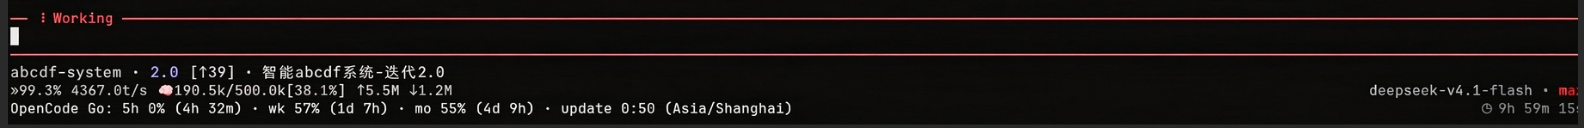
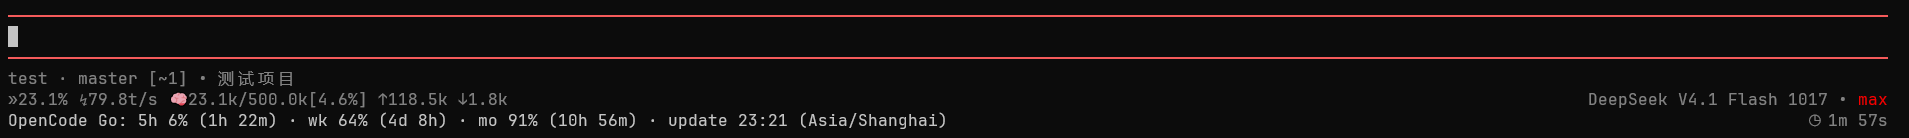
显示层修改：模型标签改用目录显示名并保留版本后缀
- 第二行模型标签优先使用 ctx.model.name，回退 id；DeepSeek V4.1 Flash 1017 不再显示为 deepseek-v4.1-flash
- 虚拟模型的 → 目标通过 modelRegistry 解析物理模型显示名，查不到时回退 id
- 测试补充模型显示名与虚拟模型箭头断言，修正过时的 🧠 图标期望
- 同步 README、CONTEXT 文档，更新示例截图

Changed region(s): [[0.0, 0.0, 1.0, 1.0]]

diff --git a/test/footer.test.ts b/test/footer.test.ts
@@ -100,7 +100,7 @@ test("renders family status on the first line and external statuses beside runti
 	const ctx = {
 		mode: "tui",
 		cwd: "/Users/me/.herdr/worktrees/repo/worktree-clear-field-f8d2",
-		model: { id: "gpt-5.6-luna" },
+		model: { id: "gpt-5.6-luna", name: "GPT-5.6 Luna" },
 		get thinkingLevel() { return thinkingLevel; },
 		sessionManager: { getEntries: () => entries },
 		getContextUsage: () => ({ tokens: 84_680, contextWindow: 200_000, percent: 42.34 }),
@@ -131,8 +131,8 @@ test("renders family status on the first line and external statuses beside runti
 	const rendered = footer.render(100);
 	assert.match(rendered[0]!, /\x1b\]8;;vscode:\/\/file\/Users\/me\/\.herdr\/worktrees\/repo\/worktree-clear-field-f8d2\x1b\\/);
 	assert.ok(colors.some(([color, text]) => color === "accent" && text === "clear-field-f8d2"));
-	const usageText = "»50.0% ↯— ◔84.7k/200.0k[42.3%] ↑3.2k ↓500";
-	const modelText = "gpt-5.6-luna • high";
+	const usageText = "»50.0% ↯— 🧠84.7k/200.0k[42.3%] ↑3.2k ↓500";
+	const modelText = "GPT-5.6 Luna • high";
 	assert.match(stripTerminalSequences(rendered[0]!), /^repo · clear-field-f8d2 · PR #123 · approved +Codex #1 · 50% · 7d 1d 1h 22m$/);
 	const usageLine = stripTerminalSequences(rendered[1]!);
 	assert.ok(usageLine.startsWith(`${usageText} `), usageLine);
@@ -218,6 +218,10 @@ test("shows the routed physical model under a virtual selection", async () => {
 	let branch = entries;
 	let leaf = "failed";
 	let model = { id: "auto", api: "pi-virtual" };
+	const names = new Map([
+		["anthropic/claude-haiku-4-5", "Claude Haiku 4.5"],
+		["anthropic/claude-sonnet-4-5", "Claude Sonnet 4.5"],
+	]);
 	const factory = await start({
 		mode: "tui",
 		cwd: "/repo",
@@ -225,6 +229,12 @@ test("shows the routed physical model under a virtual selection", async () => {
 		thinkingLevel: "high",
 		sessionManager: { getEntries: () => entries, getBranch: () => branch, getLeafId: () => leaf },
 		getContextUsage: () => undefined,
+		modelRegistry: {
+			find: (provider: string, id: string) => {
+				const name = names.get(`${provider}/${id}`);
+				return name ? { id, name } : undefined;
+			},
+		},
 	});
 	const footer = factory(
 		{ requestRender() {} },
@@ -233,13 +243,13 @@ test("shows the routed physical model under a virtual selection", async () => {
 	);
 	const modelText = () => stripTerminalSequences(footer.render(100)[1]!).replace(/^.* {2}/, "");
 	// The failed response is skipped; the routed level is omitted when the response has none.
-	assert.equal(modelText(), "auto • high → claude-sonnet-4-5");
+	assert.equal(modelText(), "auto • high → Claude Sonnet 4.5");
 	// Same entries and leaf: cached.
 	branch = [haiku];
-	assert.equal(modelText(), "auto • high → claude-sonnet-4-5");
+	assert.equal(modelText(), "auto • high → Claude Sonnet 4.5");
 	// Tree navigation changes the leaf and refreshes the routed model.
 	leaf = "haiku";
-	assert.match(footer.render(100)[1]!, /→ claude-haiku-4-5 • \x1b\[38;5;118mmedium\x1b\[39m$/);
+	assert.match(footer.render(100)[1]!, /→ Claude Haiku 4\.5 • \x1b\[38;5;118mmedium\x1b\[39m$/);
 	model = { id: "claude-sonnet-4-5", api: "anthropic-messages" };
 	assert.equal(modelText(), "claude-sonnet-4-5 • high");
 	footer.dispose();

diff --git a/extensions/footer.ts b/extensions/footer.ts
@@ -172,13 +172,13 @@ function rainbow(text: string): string {
 }
 
 /** Physical model and thinking level of the latest successful response on the branch; failed and aborted requests are skipped. */
-function latestResponse(ctx: ExtensionContext): { model: string; thinkingLevel?: string } | undefined {
+function latestResponse(ctx: ExtensionContext): { provider: string; model: string; thinkingLevel?: string } | undefined {
 	const branch = ctx.sessionManager.getBranch();
 	for (let index = branch.length - 1; index >= 0; index--) {
 		const entry = branch[index]!;
 		if (entry.type !== "message" || entry.message.role !== "assistant") continue;
-		const { stopReason, model, thinkingLevel } = entry.message;
-		if (stopReason !== "error" && stopReason !== "aborted") return { model, thinkingLevel };
+		const { stopReason, provider, model, thinkingLevel } = entry.message;
+		if (stopReason !== "error" && stopReason !== "aborted") return { provider, model, thinkingLevel };
 	}
 }
 
@@ -319,6 +319,7 @@ export default function footerExtension(pi: ExtensionAPI): void {
 		// ponytail: keyed on length + last entry (sessions are append-only) + leaf (tree navigation); revisit if entries ever mutate in place.
 		let usageKey: string | undefined;
 		let routed: ReturnType<typeof latestResponse>;
+		let routedLabel: string | undefined;
 		let input = 0;
 		let output = 0;
 		let cost = 0;
@@ -371,6 +372,8 @@ export default function footerExtension(pi: ExtensionAPI): void {
 						usageKey = key;
 						computeUsage();
 						routed = latestResponse(ctx);
+						// The response records the physical model's id; show the same catalog name as the selection.
+						routedLabel = routed ? ctx.modelRegistry?.find(routed.provider, routed.model)?.name ?? routed.model : undefined;
 					}
 
 					const reportedBranch = data.getGitBranch()?.replace(/^worktree\//, "");
@@ -403,10 +406,10 @@ export default function footerExtension(pi: ExtensionAPI): void {
 						const thinkingColor = THINKING_COLORS[level as keyof typeof THINKING_COLORS];
 						return level === "ultra" ? rainbow(level) : thinkingColor === undefined ? theme.fg("dim", level) : color(level, thinkingColor);
 					};
-					const selected = theme.fg("dim", `${ctx.model?.id ?? "no-model"} • `) + thinkingText(String(ctx.thinkingLevel ?? "off"));
+					const selected = theme.fg("dim", `${ctx.model?.name ?? ctx.model?.id ?? "no-model"} • `) + thinkingText(String(ctx.thinkingLevel ?? "off"));
 					// Under a virtual selection, show where the latest request went, as Pi's own footer does.
-					const model = ctx.model?.api === VIRTUAL_MODEL_API && routed
-						? selected + theme.fg("dim", ` → ${routed.model}`) + (routed.thinkingLevel ? theme.fg("dim", " • ") + thinkingText(routed.thinkingLevel) : "")
+					const model = ctx.model?.api === VIRTUAL_MODEL_API && routed && routedLabel
+						? selected + theme.fg("dim", ` → ${routedLabel}`) + (routed.thinkingLevel ? theme.fg("dim", " • ") + thinkingText(routed.thinkingLevel) : "")
 						: selected;
 					const elapsed = activeMilliseconds + (activeStartedAt === undefined ? 0 : performance.now() - activeStartedAt);
 					const runtime = theme.fg("dim", `◷ ${formatDuration(elapsed)}`);

diff --git a/README.md b/README.md
@@ -1,6 +1,6 @@
 # pi-footer（C-git-qok fork）
 
-> 本 fork 基于 [@HenryQW/pi-harness](https://github.com/HenryQW/pi-harness) 仓内 pi-footer（v2.2.4），显示层修改：第一行 checkout 标识后追加 session name（与 Pi 内置 footer 一致）；用量行移除费用（$）显示，紧缩为单空格分隔，顺序改为「缓存命中率、TPS、上下文占用」在前、「输入、输出」在后，缓存命中率图标 `↺` 改为 `»`，TPS 图标 `⚡` 改为 `↯` 且数值与单位去空格，上下文图标 `◔` 改为 `🧠`；其余与上游一致。
+> 本 fork 基于 [@HenryQW/pi-harness](https://github.com/HenryQW/pi-harness) 仓内 pi-footer（v2.2.4），显示层修改：第一行 checkout 标识后追加 session name（与 Pi 内置 footer 一致）；用量行移除费用（$）显示，紧缩为单空格分隔，顺序改为「缓存命中率、TPS、上下文占用」在前、「输入、输出」在后，缓存命中率图标 `↺` 改为 `»`，TPS 图标 `⚡` 改为 `↯` 且数值与单位去空格，上下文图标 `◔` 改为 `🧠`；第二行模型标签改用模型目录的显示名（如 `DeepSeek V4.1 Flash 1017`），虚拟模型的 `→` 目标同样使用显示名；其余与上游一致。
 
 Keep checkout identity, model usage, elapsed agent work, and extension status visible while you work in Pi. See repository, pull request, model, and status details without separate commands.
 
@@ -27,12 +27,12 @@ After installing, start a Pi TUI session to see checkout, usage, model, thinking
 
 ```text
 pi-harness · clear-field-f8d2 [+2 ~3 ?1 ↑2] · PR #123 · approved • 修 footer 图标    Codex #1 · 50% · 7d 1d 1h 22m
-»84.3% ↯87.4t/s 🧠73.6k/200.0k[36.8%] ↑12.4k ↓2.1k    gpt-5.6-luna • high
+»84.3% ↯87.4t/s 🧠73.6k/200.0k[36.8%] ↑12.4k ↓2.1k    GPT-5.6 Luna • high
 ✓ CG · ●  🐴 ponytail: ⚡ FULL                                          ◷ 12m 34s
 ```
 
 - The first line shows the repository, branch, Git state, and `pi-pr` pull request status beside the checkout identity, followed by the session name when the session has one. The `pi-multi-codex` quota status, when non-empty, occupies the right side. Linked-worktree branches drop the generated `worktree/` prefix.
-- The second line shows the latest cache-hit rate, tokens per second for the most recent assistant response, and context usage as used/window and percent inside brackets, then cumulative input and output tokens, separated by single spaces. The rate is timed from the response's first streamed content to its last, so request latency, time to first token, and provider work after the stream ends (such as Claude bridge shutting down Claude Code) are excluded. A response streamed for less than 250 ms, delivered without streamed content, or arriving all at once shows `—`. Totals include reported tool usage and finished `pi-subagent` background workflows. The active model and thinking level are right-aligned. Under a virtual model, the physical model and thinking level of the latest successful response follow an arrow, for example `auto • high → gpt-5.6-luna • medium`, matching Pi's built-in footer.
+- The second line shows the latest cache-hit rate, tokens per second for the most recent assistant response, and context usage as used/window and percent inside brackets, then cumulative input and output tokens, separated by single spaces. The rate is timed from the response's first streamed content to its last, so request latency, time to first token, and provider work after the stream ends (such as Claude bridge shutting down Claude Code) are excluded. A response streamed for less than 250 ms, delivered without streamed content, or arriving all at once shows `—`. Totals include reported tool usage and finished `pi-subagent` background workflows. The active model and thinking level are right-aligned using the catalog display name, falling back to the model id. Under a virtual model, the physical model and thinking level of the latest successful response follow an arrow, for example `auto • high → GPT-5.6 Luna • medium`, using the same arrow layout as Pi's built-in footer.
 - The third line shows CodeGraph's icon and `CG` first: `✓ CG` when indexed, `○ CG` when a Git repository has no index, or a dim spinner and elapsed time such as `⠋ CG · indexing 8s` during setup. Non-Git directories show no index badge. Other extension statuses follow, such as `⠋ deps · installing 12s`; dependency preparation statuses disappear when work completes. Persistent CodeGraph failures retain their theme-colored `!` icon and meaningful text. During direct `codegraph_explore` calls, `● CG` temporarily replaces the CodeGraph status, which returns when the call finishes. A middle dot separates statuses; cumulative agent-work time stays on the right, beneath the active model.
 
 Git badges appear only when action is needed:

diff --git a/CONTEXT.md b/CONTEXT.md
@@ -11,7 +11,7 @@ Session title from the latest `session_info` entry, appended dim after checkout 
 _Avoid_: Session file name, session id, project name
 
 **Usage line**:
-Latest cache-hit rate, tokens per second for the most recent response with `—` when its streamed window is under 250 ms, and current context usage as used/window and percent, then cumulative session input and output including reported tool usage and finished `pi-subagent` background workflows. Right-aligned active model and thinking level follow. `off` matches dim model text, active levels follow a distinct green-to-red gradient ending with red `max`, and `ultra` is rainbow when runtime supports it.
+Latest cache-hit rate, tokens per second for the most recent response with `—` when its streamed window is under 250 ms, and current context usage as used/window and percent, then cumulative session input and output including reported tool usage and finished `pi-subagent` background workflows. Right-aligned active model display name (falling back to the model id) and thinking level follow. `off` matches dim model text, active levels follow a distinct green-to-red gradient ending with red `max`, and `ultra` is rainbow when runtime supports it.
 _Avoid_: Token counter, status line
 
 **Agent-work time**:
